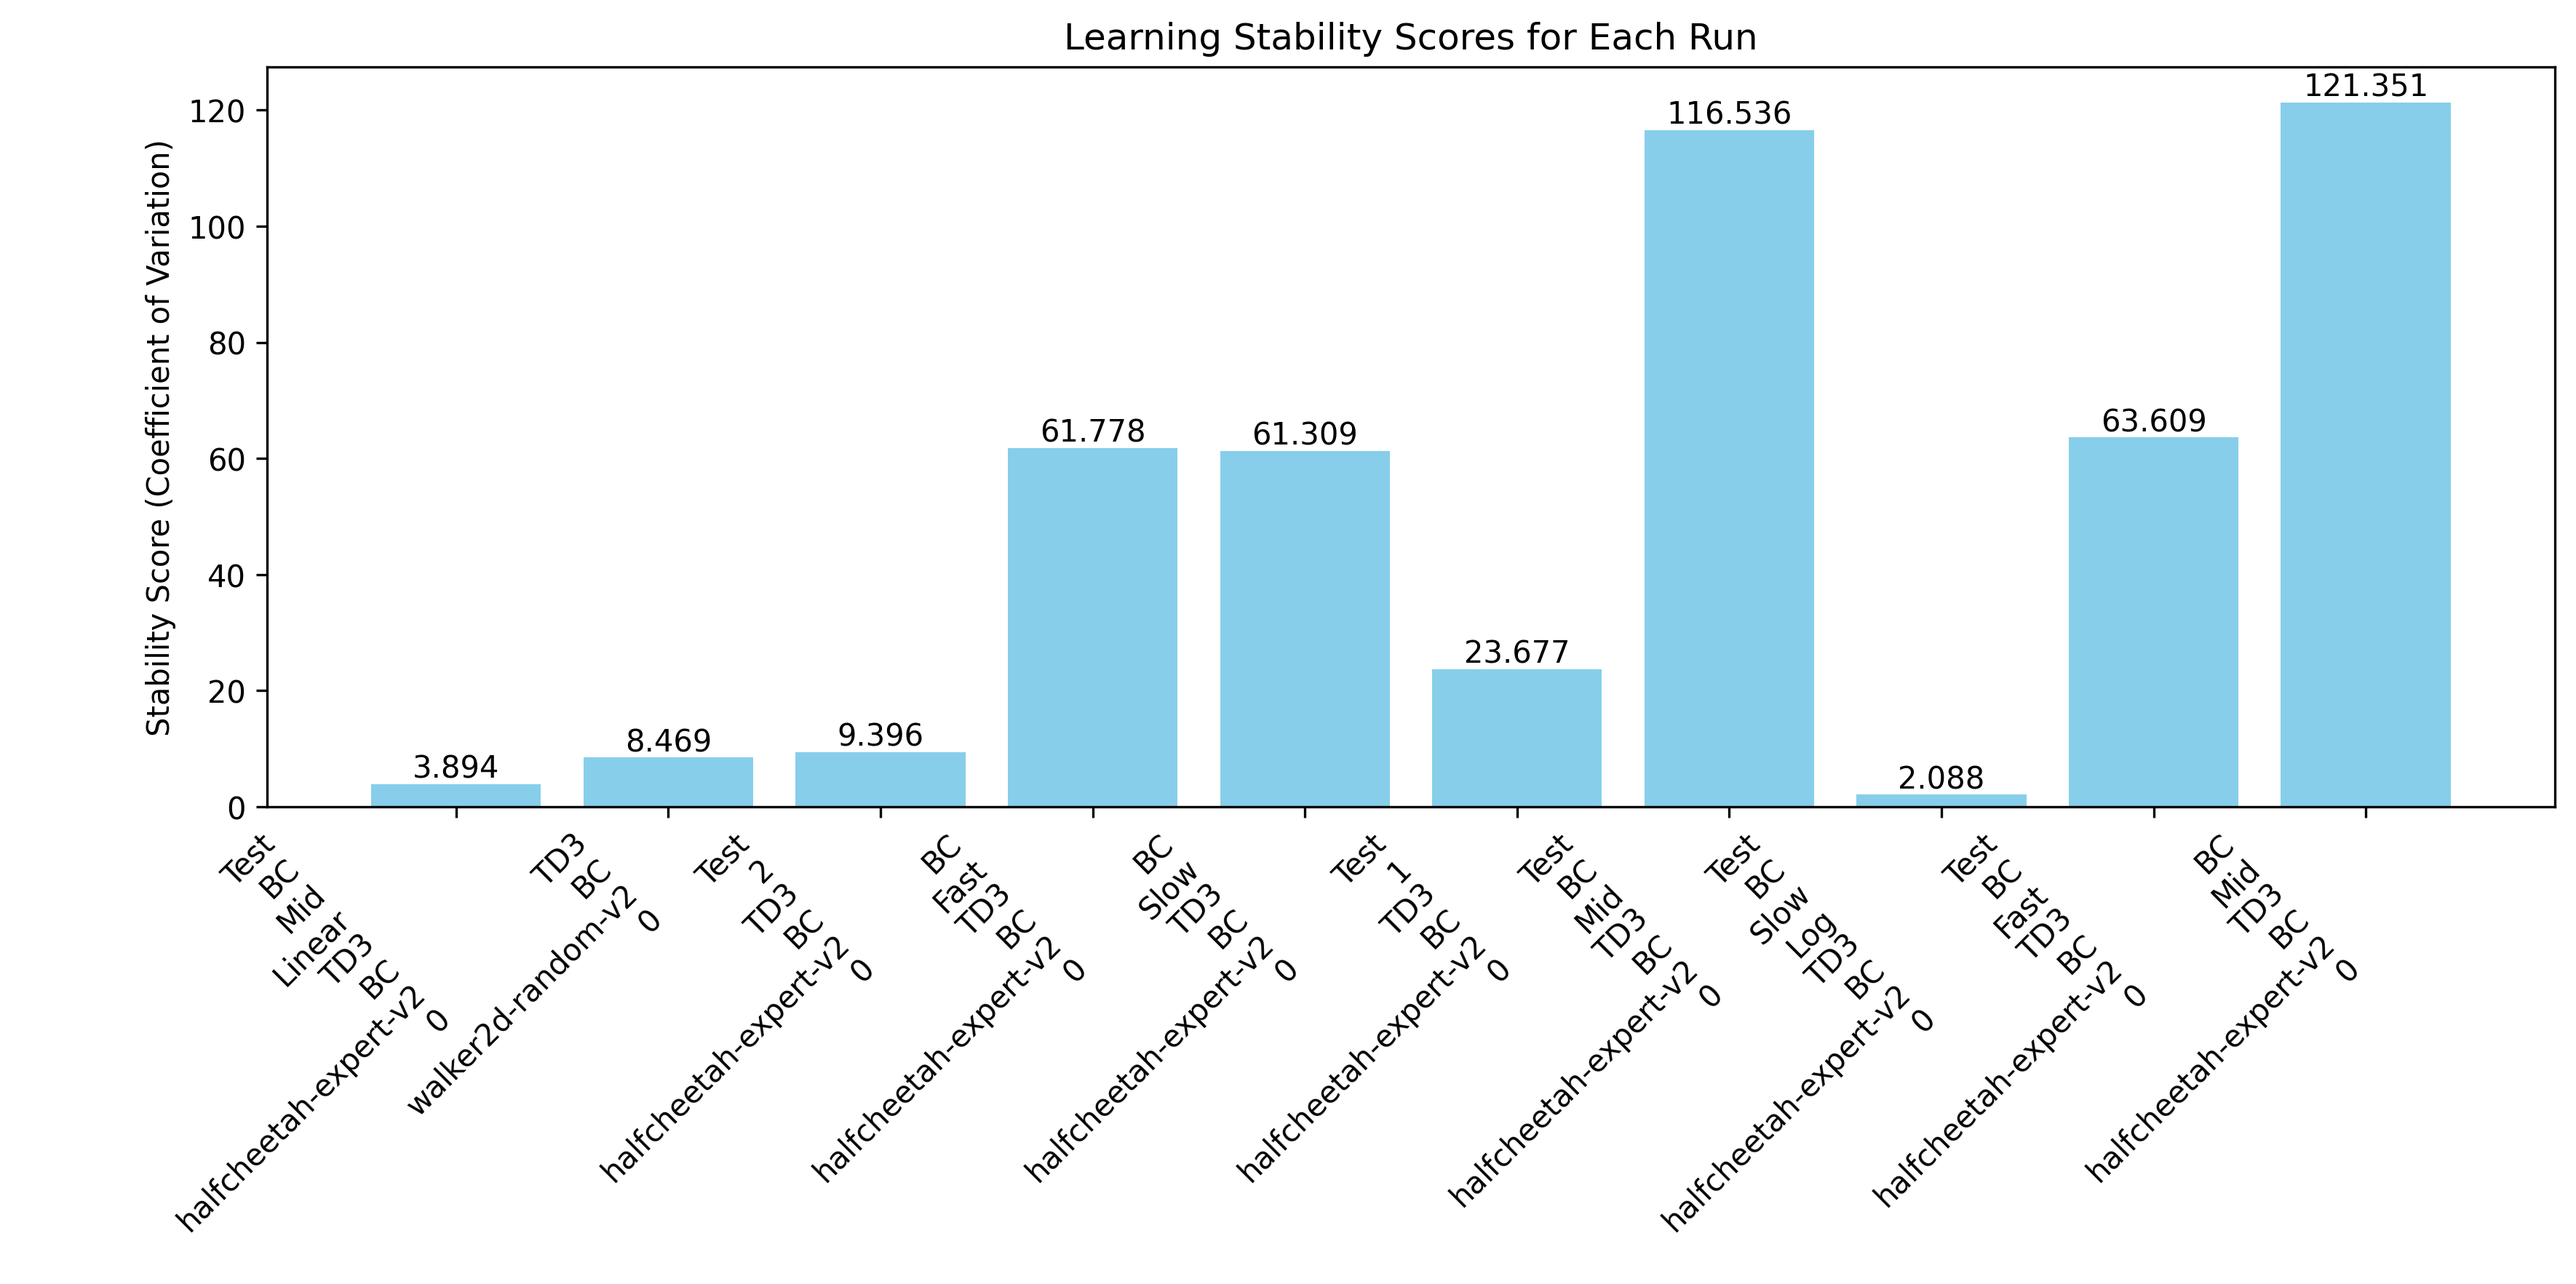
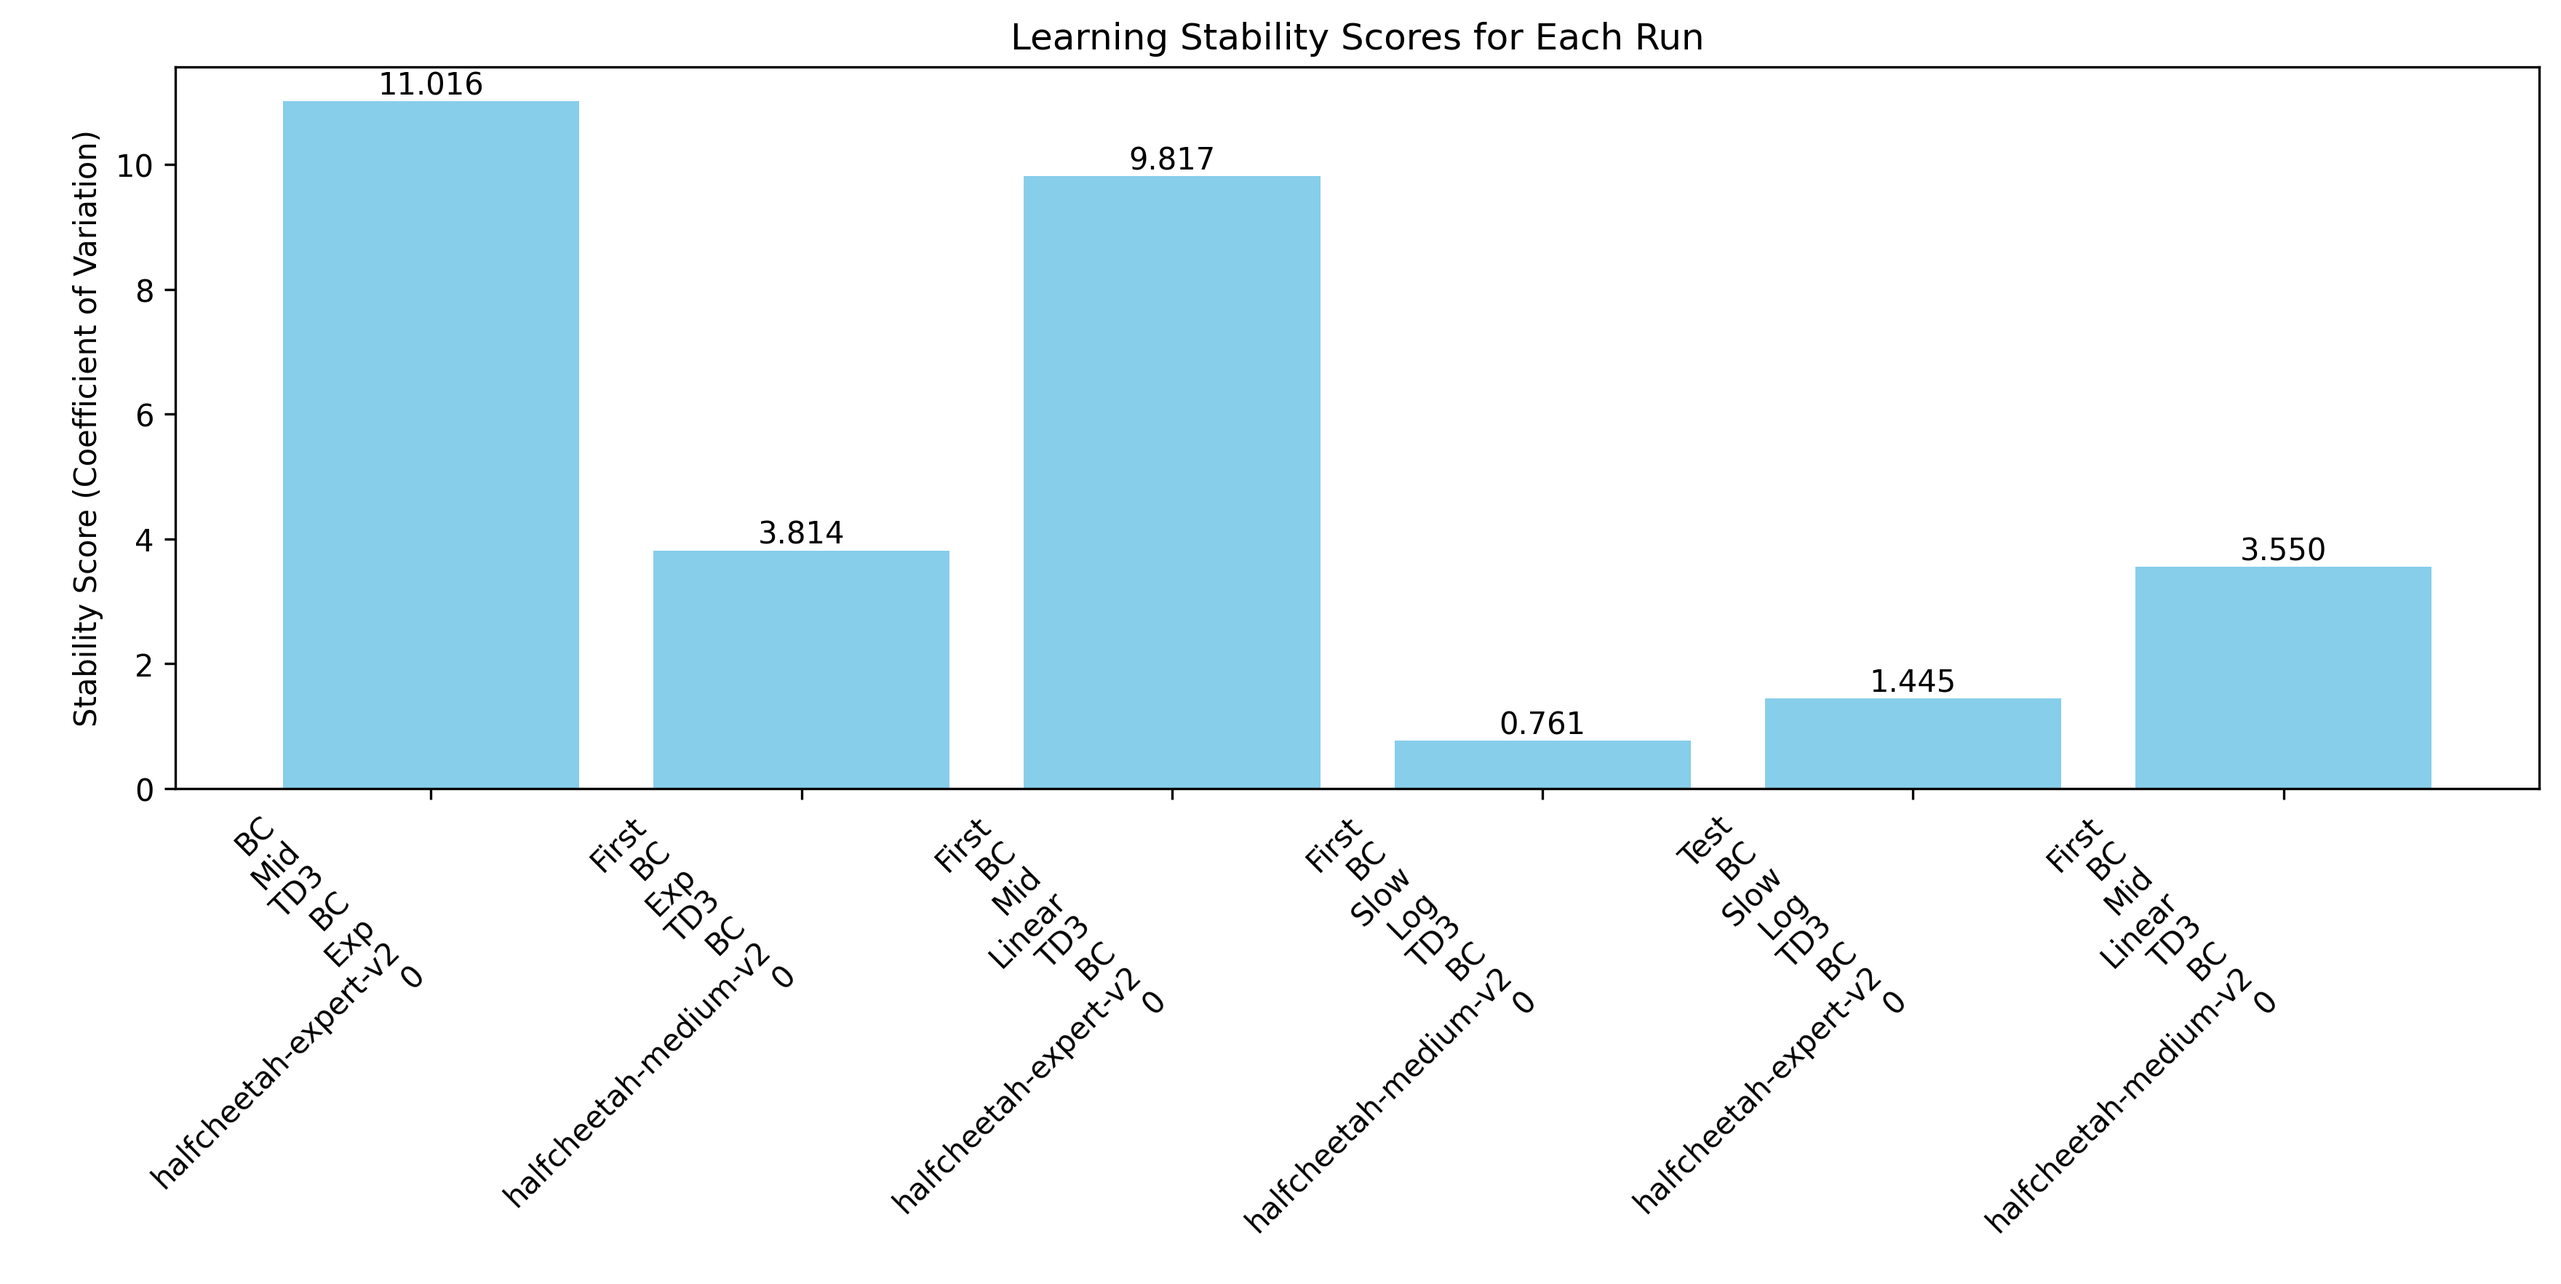
stabilitee i changed it to std instead of variance

diff --git a/compute_stability.py b/compute_stability.py
@@ -16,7 +16,7 @@ def compute_stability_scores(results_dir):
                     mean_score = np.mean(scores)
                     std_score = np.std(scores)
                     # Coefficient of variation as stability metric (lower is more stable)
-                    stability = np.var(np.diff(scores[len(scores)//2:]))
+                    stability = np.std(np.diff(scores[len(scores)//2:]))
                     stability_scores[file] = {
                         'mean': mean_score,
                         'std': std_score,
